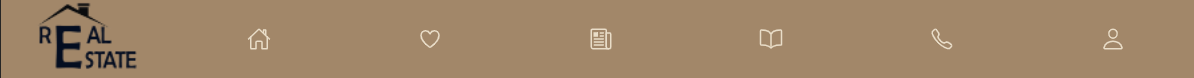
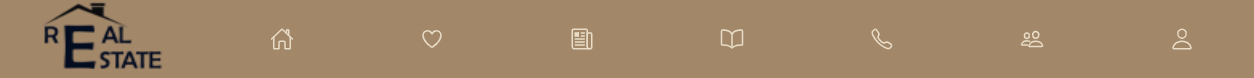
menu about us btn added

diff --git a/AccountPage/myAccount.html b/AccountPage/myAccount.html
@@ -14,7 +14,7 @@
             <img src="../Globals/logo-Crop-menuBar.png" alt="Logo" width="173" height="98">
             <ul class="navList">
                 <li class="listItem">
-                    <a href=".">
+                    <a href="../HomePage/HomePage.html">
                         <span class="icon"> 
                             <ion-icon name="home-outline"></ion-icon> 
                         </span>
@@ -22,7 +22,7 @@
                     </a>
                 </li>
                 <li class="listItem">
-                    <a href="#">
+                    <a href="../">
                         <span class="icon"> 
                             <ion-icon name="heart-outline"></ion-icon> 
                         </span>
@@ -30,7 +30,7 @@
                     </a>
                 </li>
                 <li class="listItem">
-                    <a href="#">
+                    <a href="../">
                         <span class="icon"> 
                             <ion-icon name="newspaper-outline"></ion-icon>
                         </span>
@@ -38,7 +38,7 @@
                     </a>
                 </li>
                 <li class="listItem">
-                    <a href="#">
+                    <a href="../">
                         <span class="icon"> 
                             <ion-icon name="book-outline"></ion-icon>
                         </span>
@@ -51,6 +51,14 @@
                             <ion-icon name="call-outline"></ion-icon> 
                         </span>
                         <span class="text">Contact</span>
+                    </a>
+                </li>
+                <li class="listItem">
+                    <a href="../AboutUsPage/aboutUs.html">
+                        <span class="icon"> 
+                            <ion-icon name="people-outline"></ion-icon> 
+                        </span>
+                        <span class="text">About Us</span>
                     </a>
                 </li>
                 <li class="listItem">

diff --git a/Globals/header3.php b/Globals/header3.php
@@ -3,7 +3,7 @@
         <img src="../Globals/logo-Crop-menuBar.png" alt="Logo" width="173" height="98">
         <ul class="navList">
             <li class="listItem">
-                <a href=".">
+                <a href="../HomePage/HomePage.html">
                     <span class="icon"> 
                         <ion-icon name="home-outline"></ion-icon> 
                     </span>
@@ -11,7 +11,7 @@
                 </a>
             </li>
             <li class="listItem">
-                <a href="#">
+                <a href="../">
                     <span class="icon"> 
                         <ion-icon name="heart-outline"></ion-icon> 
                     </span>
@@ -19,7 +19,7 @@
                 </a>
             </li>
             <li class="listItem">
-                <a href="#">
+                <a href="../">
                     <span class="icon"> 
                         <ion-icon name="newspaper-outline"></ion-icon>
                     </span>
@@ -27,7 +27,7 @@
                 </a>
             </li>
             <li class="listItem">
-                <a href="#">
+                <a href="../">
                     <span class="icon"> 
                         <ion-icon name="book-outline"></ion-icon>
                     </span>
@@ -40,6 +40,14 @@
                         <ion-icon name="call-outline"></ion-icon> 
                     </span>
                     <span class="text">Contact</span>
+                </a>
+            </li>
+            <li class="listItem">
+                <a href="../AboutUsPage/aboutUs.html">
+                    <span class="icon"> 
+                        <ion-icon name="people-outline"></ion-icon> 
+                    </span>
+                    <span class="text">About Us</span>
                 </a>
             </li>
             <li class="listItem">
